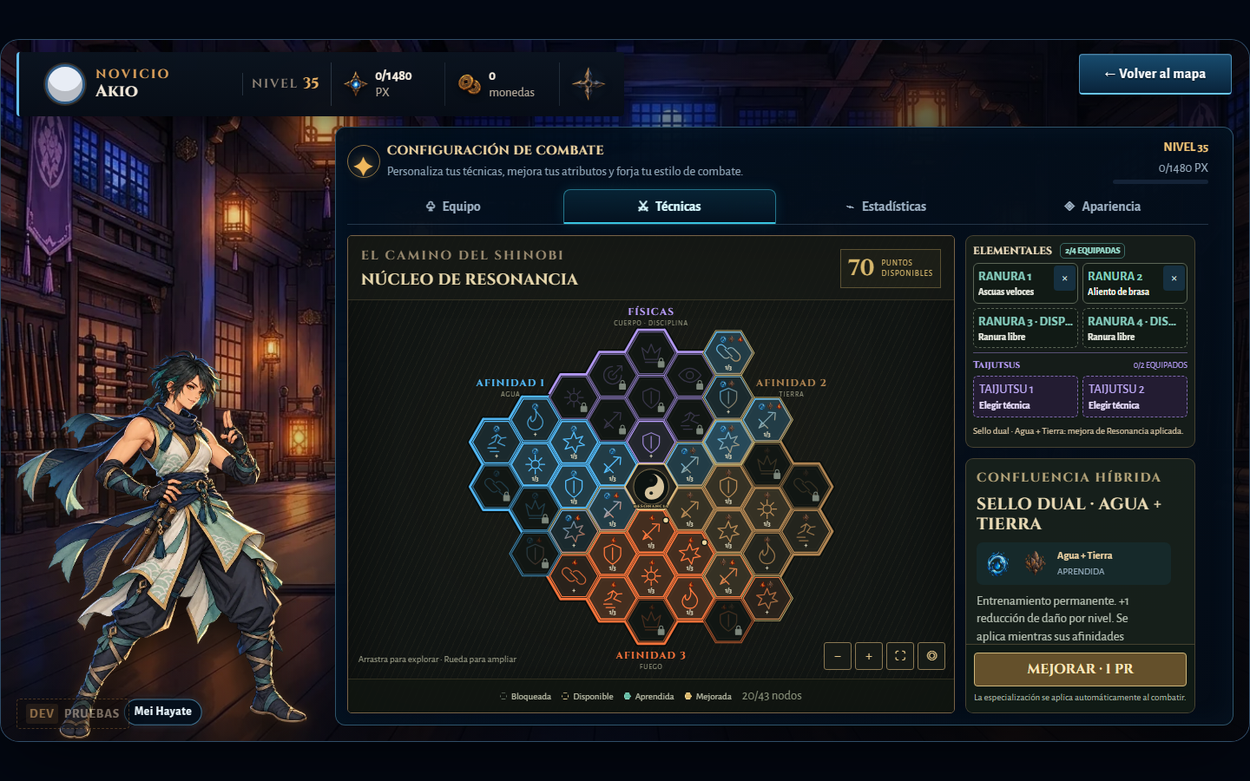
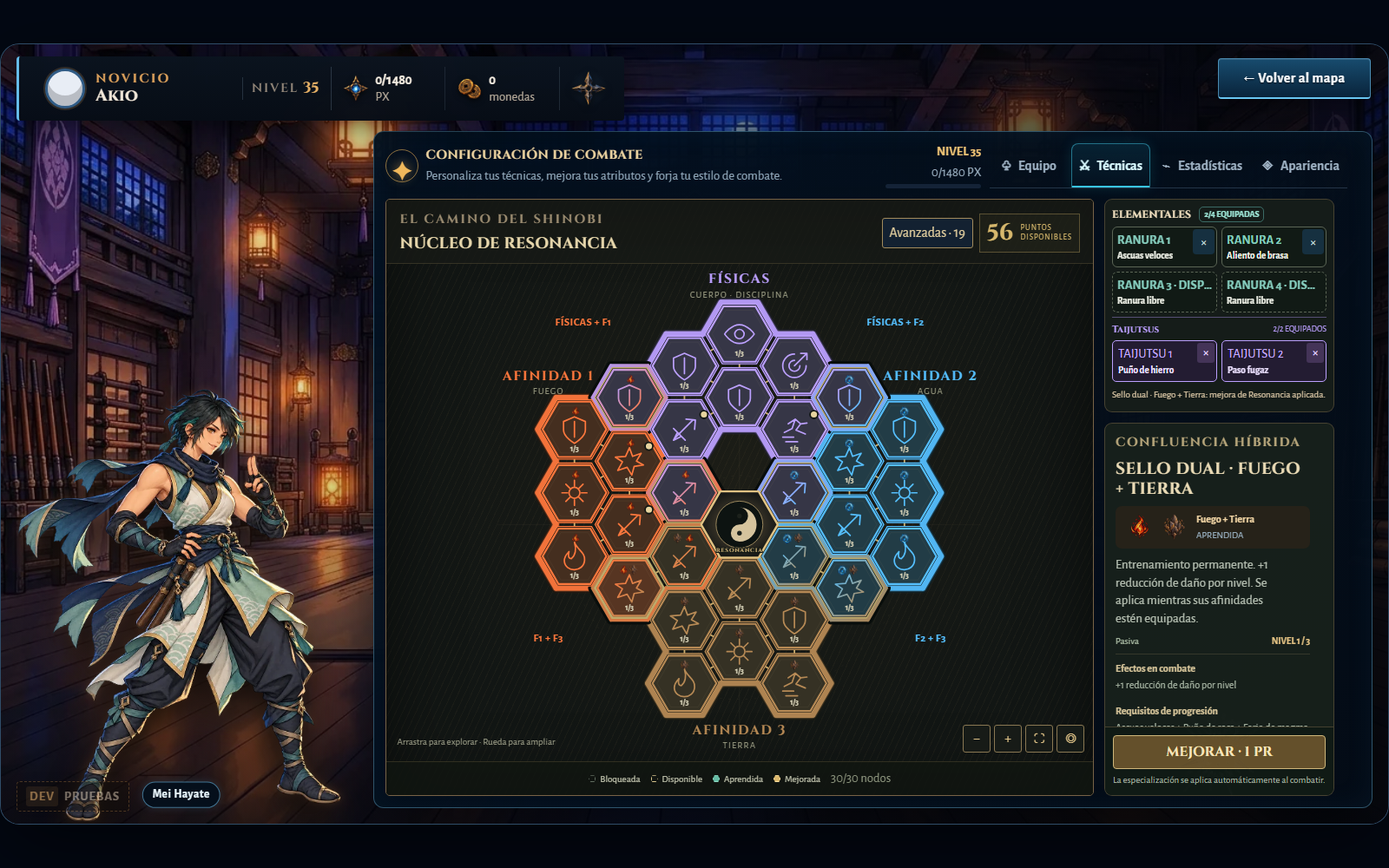
feat: add resonance tree skill system with axial hex layout and ui

diff --git a/src/ui/meta/resonance-tree.js b/src/ui/meta/resonance-tree.js
@@ -21,31 +21,39 @@ const labels = { locked: "BLOQUEADA", available: "DISPONIBLE", unlocked: "APREND
 
 export function treeBounds(nodes) {
   const positions = nodes.map(n => axialToPixel(n.q,n.r));
-  const left = Math.min(...positions.map(p => p.x))-60;
-  const right = Math.max(...positions.map(p => p.x))+60;
+  const left = Math.min(-330,Math.min(...positions.map(p => p.x))-60);
+  const right = Math.max(330,Math.max(...positions.map(p => p.x))+60);
   const top = Math.min(...positions.map(p => p.y))-90;
   const bottom = Math.max(...positions.map(p => p.y))+100;
   return { x:left, y:top, width:right-left, height:bottom-top };
 }
 export const viewBox = view => `${view.x} ${view.y} ${view.width} ${view.height}`;
 
-export function resonanceTreeMarkup(save, deps, selectedId, view) {
+export function resonanceTreeMarkup(save, deps, selectedId, view, { expanded = false } = {}) {
   const escape = deps.escapeHtml;
   const affinities = save.character.affinities;
-  const nodes = skillTreeNodes(save);
+  const allNodes = skillTreeNodes(save);
+  const nodes = expanded ? allNodes : allNodes.filter(node => !node.advanced);
+  const extensionCount = allNodes.filter(node => node.advanced).length;
   const bounds = treeBounds(nodes);
-  const colors = node => node.category === "physical" ? [PHYSICAL_COLOR,PHYSICAL_COLOR] : [colorFor(deps,node.affinityIds[0]),colorFor(deps,node.affinityIds[1] || node.affinityIds[0])];
+  const colors = node => node.physicalHybrid ? [PHYSICAL_COLOR,colorFor(deps,node.affinityIds[0])] : node.category === "physical" ? [PHYSICAL_COLOR,PHYSICAL_COLOR] : [colorFor(deps,node.affinityIds[0]),colorFor(deps,node.affinityIds[1] || node.affinityIds[0])];
+  const bridgeIds = [...new Set(nodes.map(node => node.bridge).filter(Boolean))];
+  const bridgeGradients = bridgeIds.map(id => {
+    const [a,b] = colors(nodes.find(node => node.bridge === id));
+    return `<linearGradient id="res-bridge-${id}" x1="0" y1="0" x2="1" y2="1"><stop stop-color="${a}"/><stop offset="1" stop-color="${b}"/></linearGradient>`;
+  }).join("");
   const gradients = nodes.map(node => {
     const [a,b] = colors(node);
     return `<linearGradient id="res-${node.id}" x1="0" y1="0" x2="1" y2="1"><stop stop-color="${a}"/><stop offset="1" stop-color="${b}"/></linearGradient>`;
   }).join("");
   const regions = [
     { id:"physical", color:PHYSICAL_COLOR, nodes:nodes.filter(node => node.category === "physical") },
-    ...Array.from({ length:3 },(_,slot) => ({ id:`affinity-${slot+1}`, color:colorFor(deps,affinities[slot]), nodes:nodes.filter(node => node.category === "affinity" && node.slot === slot) }))
+    ...Array.from({ length:3 },(_,slot) => ({ id:`affinity-${slot+1}`, color:colorFor(deps,affinities[slot]), nodes:nodes.filter(node => node.category === "affinity" && node.slot === slot) })),
+    ...bridgeIds.map(id => ({ id,color:`url(#res-bridge-${id})`,nodes:nodes.filter(node => node.bridge === id),hybrid:true }))
   ].map(region => {
     const edges = hexBoundarySegments(region.nodes);
     const outline = edges.map(edge => `M${edge.x1},${edge.y1}L${edge.x2},${edge.y2}`).join(" ");
-    return `<g class="resonance-region" data-region="${region.id}" data-region-color="${region.color}" style="--region-color:${region.color}" aria-hidden="true"><path class="resonance-region-shadow" d="${outline}"/><path class="resonance-region-border" d="${outline}"/></g>`;
+    return `<g class="resonance-region ${region.hybrid ? "is-hybrid-region" : ""}" ${region.hybrid ? "data-bridge-region" : "data-region"}="${region.id}" data-region-color="${region.color}" style="--region-color:${region.color}" aria-hidden="true"><path class="resonance-region-shadow" d="${outline}"/><path class="resonance-region-border" d="${outline}"/></g>`;
   }).join("");
   const graph = [{ id:"core", q:0,r:0 }, ...nodes];
   const lines = graph.flatMap((node,i) => graph.slice(i+1).filter(other => hexDistance(node,other) === 1).map(other => {
@@ -64,26 +72,28 @@ export function resonanceTreeMarkup(save, deps, selectedId, view) {
     const stamps = node.affinityIds.map((id,i) => `<image class="resonance-element-stamp" href="${deps.elementIcon(id)}" x="${node.affinityIds.length > 1 ? -17+i*14 : -8}" y="-31" width="16" height="16" aria-hidden="true"/>`).join("");
     return `<g class="resonance-node is-${state} ${node.category === "hybrid" ? "is-hybrid" : ""} ${selectedId === node.id ? "is-selected" : ""}" transform="translate(${x} ${y})" style="--node-color:${a}" role="button" tabindex="0" aria-pressed="${selectedId === node.id}" aria-label="${escape(node.name)}. ${status}. Nivel ${level} de ${node.maxLevel}" data-skill-select="${node.id}" data-category="${node.category}" data-slot="${node.slot ?? ""}" data-state="${state}"><title>${escape(node.name)} · ${status}</title><polygon class="resonance-hex-outline" points="${hexPoints(44)}"/><polygon class="resonance-hex" points="${hexPoints()}" stroke="url(#res-${node.id})"/><polygon class="resonance-hex-inset" points="${hexPoints(35)}"/>${stamps}<path class="resonance-glyph" d="${PATHS[node.icon] || PATHS.seal}" stroke="url(#res-${node.id})"/>${state === "locked" ? '<g class="resonance-lock" transform="translate(17 15)"><rect x="-5" y="0" width="10" height="9" rx="1"/><path d="M-3 0v-3a3 3 0 0 1 6 0v3"/></g>' : `<text class="resonance-level" x="0" y="28" text-anchor="middle">${level ? `${level}/${node.maxLevel}` : "+"}</text>`}${equippedSlot >= 0 ? '<circle class="resonance-equipped" cx="25" cy="-19" r="5"/>' : ""}<text class="skill-state" aria-hidden="true">${escape(status)}</text></g>`;
   }).join("");
-  const positions = nodes.map(n => ({ ...axialToPixel(n.q,n.r), node:n }));
-  const topLabel = Math.min(...positions.map(p => p.y))-65;
-  const bottomLabel = Math.max(...positions.map(p => p.y))+65;
+  const mainPositions = nodes.filter(node => !node.advanced).map(n => axialToPixel(n.q,n.r));
+  const topLabel = Math.min(...mainPositions.map(p => p.y))-65;
+  const bottomLabel = Math.max(...mainPositions.map(p => p.y))+65;
+  const caption = (x,y,title,subtitle,color) => `<g class="resonance-caption" style="fill:${color}" transform="translate(${x} ${y})"><text text-anchor="middle">${escape(title)}</text><text class="resonance-caption-sub" text-anchor="middle" y="18">${escape(subtitle)}</text></g>`;
   const captions = [
-    `<g class="resonance-caption physical" style="fill:${PHYSICAL_COLOR}" transform="translate(0 ${topLabel})"><text text-anchor="middle">FÍSICAS</text><text class="resonance-caption-sub" y="18" text-anchor="middle">CUERPO · DISCIPLINA</text></g>`,
-    ...affinities.concat(Array(3).fill(null)).slice(0,3).map((id,i) => {
-      const branch = positions.filter(p => p.node.slot === i || p.node.advanced && (i === 0 ? p.node.q < -2 : i === 1 ? p.node.q > 2 && p.y < 0 : false));
-      const captionPositions = [[-240,Math.min(...branch.map(p => p.y))-58],[240,Math.min(...branch.map(p => p.y))-58],[0,bottomLabel]];
-      return `<g class="resonance-caption" style="fill:${colorFor(deps,id)}" transform="translate(${captionPositions[i][0]} ${captionPositions[i][1]})"><text text-anchor="middle">AFINIDAD ${i+1}</text><text class="resonance-caption-sub" text-anchor="middle" y="18">${id ? escape(deps.elementName(id).toUpperCase()) : "POR DESCUBRIR"}</text></g>`;
-    })
+    caption(0,topLabel,"FÍSICAS","CUERPO · DISCIPLINA",PHYSICAL_COLOR),
+    ...[0,1,2].map(i => {
+      const id = affinities[i];
+      const [x,y] = [[-245,-185],[245,-185],[0,bottomLabel]][i];
+      return caption(x,y,`AFINIDAD ${i+1}`,id ? deps.elementName(id).toUpperCase() : "POR DESCUBRIR",colorFor(deps,id));
+    }),
+    ...[[0,-200,-255,"FÍSICAS + F1"],[1,200,-255,"FÍSICAS + F2"],[0,-245,150,"F1 + F3"],[1,245,150,"F2 + F3"]].map(([slot,x,y,label]) => `<g class="resonance-bridge-caption" transform="translate(${x} ${y})"><text text-anchor="middle" style="fill:${colorFor(deps,affinities[slot])}">${label}</text></g>`)
   ].join("");
   const developed = nodes.filter(n => skillLevel(save,n)>0 && skillState(save,n) !== "locked").length;
-  return `<section class="resonance-tree skill-tree" aria-label="Árbol de habilidades de Resonancia"><header class="resonance-heading"><div><p class="eyebrow">EL CAMINO DEL SHINOBI</p><h3>Núcleo de Resonancia</h3></div><span class="resonance-points"><b data-resonance-points>${resonancePoints(save)}</b><span>PUNTOS<br>DISPONIBLES</span></span></header><div class="resonance-viewport"><svg class="resonance-canvas" viewBox="${viewBox(view || bounds)}" aria-label="Panal de habilidades. Usa Tab para recorrer, Enter para seleccionar; flechas para desplazar y más o menos para ampliar." data-tree-canvas><defs>${gradients}<radialGradient id="res-core"><stop stop-color="#5f5139"/><stop offset="1" stop-color="#171917"/></radialGradient></defs><g class="resonance-guides" aria-hidden="true"><circle r="63"/><circle r="224"/><path d="M0-340V340M-310 0H310"/></g><g aria-hidden="true">${lines}</g>${regions}${cells}<g class="resonance-core ${selectedId === "core" ? "is-selected" : ""}" role="button" tabindex="0" aria-label="Núcleo de Resonancia. Centrar el árbol" data-tree-core><polygon points="${hexPoints(45)}"/><circle r="30"/><path d="M0-22a22 22 0 0 1 0 44A11 11 0 0 1 0 0a11 11 0 0 0 0-22Z"/><circle cy="-11" r="3"/><circle cy="11" r="3"/><text text-anchor="middle" y="35">RESONANCIA</text></g>${captions}</svg><nav class="resonance-controls" aria-label="Navegación del árbol"><button type="button" data-tree-zoom="out" aria-label="Alejar árbol">−</button><button type="button" data-tree-zoom="in" aria-label="Acercar árbol">+</button><button type="button" data-tree-fit aria-label="Mostrar árbol completo" title="Mostrar árbol completo">⛶</button><button type="button" data-tree-center aria-label="Centrar en Resonancia" title="Centrar en Resonancia">◎</button></nav><span class="resonance-navigation-hint">Arrastra para explorar · Rueda para ampliar</span></div><footer class="resonance-legend"><span><i class="locked"></i>Bloqueada</span><span><i class="available"></i>Disponible</span><span><i class="unlocked"></i>Aprendida</span><span><i class="upgraded"></i>Mejorada</span><small>${developed}/${nodes.length} nodos</small></footer></section>`;
+  return `<section class="resonance-tree skill-tree" aria-label="Árbol de habilidades de Resonancia"><header class="resonance-heading"><div><p class="eyebrow">EL CAMINO DEL SHINOBI</p><h3>Núcleo de Resonancia</h3></div><div class="resonance-heading-actions"><button type="button" class="resonance-extensions-toggle" data-tree-extensions aria-pressed="${expanded}">${expanded ? "Panal principal" : `Avanzadas · ${extensionCount}`}</button><span class="resonance-points"><b data-resonance-points>${resonancePoints(save)}</b><span>PUNTOS<br>DISPONIBLES</span></span></div></header><div class="resonance-viewport"><svg class="resonance-canvas" viewBox="${viewBox(view || bounds)}" aria-label="Panal de habilidades. Usa Tab para recorrer, Enter para seleccionar; flechas para desplazar y más o menos para ampliar." data-tree-canvas><defs>${gradients}${bridgeGradients}<radialGradient id="res-core"><stop stop-color="#5f5139"/><stop offset="1" stop-color="#171917"/></radialGradient></defs><g class="resonance-guides" aria-hidden="true"><circle r="63"/><circle r="224"/><path d="M0-340V340M-310 0H310"/></g><g aria-hidden="true">${lines}</g>${regions}${cells}<g class="resonance-core ${selectedId === "core" ? "is-selected" : ""}" role="button" tabindex="0" aria-label="Núcleo de Resonancia. Centrar el árbol" data-tree-core><polygon points="${hexPoints(49)}"/><circle r="30"/><path d="M0-22a22 22 0 0 1 0 44A11 11 0 0 1 0 0a11 11 0 0 0 0-22Z"/><circle cy="-11" r="3"/><circle cy="11" r="3"/><text text-anchor="middle" y="35">RESONANCIA</text></g>${captions}</svg><nav class="resonance-controls" aria-label="Navegación del árbol"><button type="button" data-tree-zoom="out" aria-label="Alejar árbol">−</button><button type="button" data-tree-zoom="in" aria-label="Acercar árbol">+</button><button type="button" data-tree-fit aria-label="Mostrar árbol completo" title="Mostrar árbol completo">⛶</button><button type="button" data-tree-center aria-label="Centrar en Resonancia" title="Centrar en Resonancia">◎</button></nav><span class="resonance-navigation-hint">Arrastra para explorar · Rueda para ampliar</span></div><footer class="resonance-legend"><span><i class="locked"></i>Bloqueada</span><span><i class="available"></i>Disponible</span><span><i class="unlocked"></i>Aprendida</span><span><i class="upgraded"></i>Mejorada</span><small>${developed}/${nodes.length} nodos</small></footer></section>`;
 }
 
 export function mountResonanceNavigation(host,scope,callbacks) {
   let drag = null;
   let dragged = false;
   const svg = () => host.querySelector("[data-tree-canvas]");
-  const bounds = () => treeBounds(buildSkillTree(callbacks.getSave().character.affinities,callbacks.getSave().campaign.elementRank));
+  const bounds = () => treeBounds(buildSkillTree(callbacks.getSave().character.affinities,callbacks.getSave().campaign.elementRank).filter(node => callbacks.getExpanded() || !node.advanced));
   const current = () => callbacks.getView() || bounds();
   const update = view => { callbacks.setView(view); svg()?.setAttribute("viewBox",viewBox(view)); };
   const point = event => {

diff --git a/src/ui/meta/dojo-techniques.js b/src/ui/meta/dojo-techniques.js
@@ -7,6 +7,7 @@ import { equipTaijutsu, learnedTaijutsu, normalizeTaijutsuLoadout, taijutsuActio
 export function createDojoTechniques(deps) {
   let selectedId = null;
   let treeView = null;
+  let expandedTree = false;
   let replacementId = null;
   let feedback = "";
   let host = null;
@@ -66,8 +67,8 @@ export function createDojoTechniques(deps) {
     const full = save.loadout.length >= deps.loadoutSlotsForLevel(save.progression.level);
     const label = !learned ? "TÉCNICA BLOQUEADA" : equipped ? "QUITAR DEL COMBATE" : full ? "REEMPLAZAR UNA EQUIPADA" : "EQUIPAR EN RANURA LIBRE";
     const category = taijutsu ? "TAIJUTSU · FÍSICO" : node.category === "physical" ? "DISCIPLINA FÍSICA" : node.category === "hybrid" ? "CONFLUENCIA HÍBRIDA" : "TÉCNICA ELEMENTAL";
-    const affinity = node.affinityIds.map(deps.elementName).join(" + ") || "Independiente de las afinidades";
-    const art = node.element ? elementArt(node.element) : node.affinityIds.map(id => elementArt(id)).join("") || '<span class="resonance-physical-mark" aria-hidden="true">拳</span>';
+    const affinity = (node.physicalHybrid ? "Físicas + " : "") + (node.affinityIds.map(deps.elementName).join(" + ") || "Independiente de las afinidades");
+    const art = node.element ? elementArt(node.element) : `${node.physicalHybrid || !node.affinityIds.length ? '<span class="resonance-physical-mark" aria-hidden="true">拳</span>' : ""}${node.affinityIds.map(id => elementArt(id)).join("")}`;
     const canInvest = !requirements.length && level < node.maxLevel && resonancePoints(save) >= node.cost;
     const investLabel = level >= node.maxLevel ? "NIVEL MÁXIMO" : `${level ? "MEJORAR" : "DESBLOQUEAR"} · ${node.cost} PR`;
     const metrics = combatMove ? `<div class="technique-metrics"><div><strong>${combatMove.damage}</strong><small>DAÑO BASE</small></div><div><strong>${taijutsu ? `${taijutsu.healthCost} PV` : `${jutsu.cost} CH`}</strong><small>COSTE EN COMBATE</small></div><div><strong>${combatMove.cooldown ? `${combatMove.cooldown} turnos` : "Sin recarga"}</strong><small>RECARGA</small></div><div><strong>${combatMove.speedMod > 0 ? "+" : ""}${combatMove.speedMod}</strong><small>RITMO</small></div></div>` : "";
@@ -80,15 +81,19 @@ export function createDojoTechniques(deps) {
 
   function render(save) {
     const nodes = nodesFor(save);
-    if (selectedId !== "core" && !nodes.some(node => node.id === selectedId)) selectedId = save.loadout.find(id => nodes.some(node => node.id === id)) || "core";
+    const visibleNodes = expandedTree ? nodes : nodes.filter(node => !node.advanced);
+    if (selectedId !== "core" && !visibleNodes.some(node => node.id === selectedId)) selectedId = save.loadout.find(id => visibleNodes.some(node => node.id === id)) || "core";
     if (replacementId && (save.loadout.includes(replacementId) || !deps.isTechniqueLearned(save, technique(replacementId)))) replacementId = null;
-    return `<div class="dojo-technique-workspace">${loadoutMarkup(save)}<div class="dojo-technique-layout">${resonanceTreeMarkup(save,deps,selectedId,treeView)}<section class="technique-detail-wrap" aria-label="Detalle de habilidad" data-technique-detail>${detailMarkup(save,nodes.find(n => n.id === selectedId))}</section></div></div>`;
+    return `<div class="dojo-technique-workspace">${loadoutMarkup(save)}<div class="dojo-technique-layout">${resonanceTreeMarkup(save,deps,selectedId,treeView,{ expanded:expandedTree })}<section class="technique-detail-wrap" aria-label="Detalle de habilidad" data-technique-detail>${detailMarkup(save,nodes.find(n => n.id === selectedId))}</section></div></div>`;
   }
 
   function inspect(id, preview = false) {
     if (!host?.isConnected) return;
     const save = bindings.getSave();
     if (!preview) {
+      if (!expandedTree && nodesFor(save).some(node => node.id === id && node.advanced)) {
+        expandedTree = true; treeView = null; selectedId = id; refresh(save);
+      }
       selectedId = id;
       replacementId = null;
       const prerequisites = nodesFor(save).find(node => node.id === id)?.prerequisites || [];
@@ -129,7 +134,7 @@ export function createDojoTechniques(deps) {
       feedback = "";
       refresh(bindings.getSave());
       mountResonanceNavigation(host,scope,{
-        getSave: bindings.getSave, getView: () => treeView, setView: view => { treeView = view; },
+        getSave: bindings.getSave, getExpanded: () => expandedTree, getView: () => treeView, setView: view => { treeView = view; },
         onInspect: id => { if (replacementId) { replacementId = null; refresh(bindings.getSave()); } inspect(id); },
         onHover: id => { if (!replacementId) inspect(id || selectedId,true); },
         onCore: () => inspect("core")
@@ -140,7 +145,11 @@ export function createDojoTechniques(deps) {
         if (!button || button.disabled) return;
         const save = bindings.getSave();
         const inspectId = button.dataset.skillSelect || button.dataset.loadoutInspect;
-        if (button.hasAttribute("data-taijutsu-choose")) {
+        if (button.hasAttribute("data-tree-extensions")) {
+          expandedTree = !expandedTree; treeView = null;
+          if (!expandedTree && nodesFor(save).some(node => node.id === selectedId && node.advanced)) selectedId = "core";
+          refresh(save,"[data-tree-extensions]");
+        } else if (button.hasAttribute("data-taijutsu-choose")) {
           const index = Number(button.dataset.taijutsuChoose);
           selectedId = normalizeTaijutsuLoadout(save)[index] || TAIJUTSU_ACTIONS.find(action => learnedTaijutsu(save,action.id) && !normalizeTaijutsuLoadout(save).includes(action.id))?.id || TAIJUTSU_ACTIONS[0].id;
           replacementId = null; feedback = "Elige T1 o T2 en la ficha para equipar el taijutsu.";
@@ -160,6 +169,7 @@ export function createDojoTechniques(deps) {
           host.querySelector(`[data-skill-invest="${selectedId}"]`)?.focus({ preventScroll:true });
         } else if (inspectId) {
           selectedId = inspectId; replacementId = null; feedback = "";
+          if (nodesFor(save).some(node => node.id === selectedId && node.advanced)) { expandedTree = true; treeView = null; }
           refresh(save, button.dataset.skillSelect ? `[data-skill-select="${inspectId}"]` : `[data-loadout-inspect="${inspectId}"]`, true);
         } else if (button.hasAttribute("data-cancel-replace")) cancel();
         else if (button.hasAttribute("data-loadout-remove")) {

diff --git a/src/skills/definitions.js b/src/skills/definitions.js
@@ -18,15 +18,19 @@ export const PHYSICAL_COLOR = "#bca0ff";
  */
 /** @typedef {SkillDefinition & { level: number }} SkillNode Runtime projection of definition + player progression. */
 
-// Flat-top axial cells. Layout is data, shared by every equipped element.
+// Main silhouette traced from the reference: seven staggered columns,
+// six upper physical cells, two five-cell side fans, six lower cells,
+// and four two-cell diagonal bridges. The upper central recess stays empty.
+export const HEX_GRID_SIZE = 47;
 export const SKILL_LAYOUT = Object.freeze({
-  physical: [[0,-1],[-1,-1],[1,-2],[0,-2],[-1,-2],[1,-3],[-2,-1],[0,-3]],
+  physical: [[0,-2],[-1,-1],[1,-2],[-1,-2],[1,-3],[0,-3]],
   affinities: [
-    [[-1,0],[-2,0],[-2,1],[-3,1],[-3,0],[-4,1],[-4,2],[-3,2]],
-    [[1,0],[2,0],[2,-1],[3,-1],[3,0],[4,-1],[4,-2],[3,-2]],
-    [[0,1],[1,1],[-1,2],[0,2],[1,2],[-1,3],[-2,3],[0,3]]
+    [[-2,1],[-2,0],[-3,0],[-3,1],[-3,2]],
+    [[2,-1],[2,-2],[3,-3],[3,-2],[3,-1]],
+    [[0,1],[-1,2],[1,1],[0,2],[-1,3],[1,2]]
   ],
-  hybrids: [[[1,-1],[2,-2],[2,-3]],[[-1,1],[-2,2],[-3,3]],[[2,1],[3,1],[2,2]]]
+  physicalBridges: [[[-1,0],[-2,-1]],[[1,-1],[2,-3]]],
+  affinityBridges: [[[-1,1],[-2,2]],[[1,0],[2,0]]]
 });
 
 const ICONS = ["strike", "burst", "shield", "seal", "flame", "step", "bind", "crown"];
@@ -102,9 +106,21 @@ export function pairSkills(affinityIds) {
   return nodes;
 }
 
+export function physicalAffinitySkills(elementId) {
+  const key = `physical_${elementId}`;
+  const root = affinitySkills(elementId)[0].id;
+  return [
+    passive(`hybrid_${key}_0`, `Impacto resonante · ${ELEMENTS[elementId].name}`, "hybrid", [elementId], 0,
+      { stat:"strength",amount:1 }, ["physical_0",root]),
+    passive(`hybrid_${key}_1`, `Cuerpo resonante · ${ELEMENTS[elementId].name}`, "hybrid", [elementId], 2,
+      { stat:"damageReduction",amount:1 }, [`hybrid_${key}_0`,"physical_0",root])
+  ].map(node => ({ ...node,physicalHybrid:true,description:`Combina el entrenamiento físico con ${ELEMENTS[elementId].name}. ${effectText(node.effect)}.` }));
+}
+
 export const SKILL_CATALOG = [
   ...PHYSICAL_SKILLS,
   ...BASIC_ELEMENT_IDS.flatMap(affinitySkills),
+  ...BASIC_ELEMENT_IDS.flatMap(physicalAffinitySkills),
   ...BASIC_ELEMENT_IDS.flatMap((id,i) => BASIC_ELEMENT_IDS.slice(i+1).flatMap(other => pairSkills([id,other]))),
   ...JUTSU_LIBRARY.filter(j => basicRequirements(j.element).length === 3).map((j,i) => ({
     ...techniqueNode(j,"hybrid",i), prerequisites: basicRequirements(j.element).map(id => affinitySkills(id)[0].id)
@@ -126,19 +142,29 @@ export function buildSkillTree(affinities = [], rank = 1) {
     nodes.push(...place(branch.slice(0,SKILL_LAYOUT.affinities[slot].length), SKILL_LAYOUT.affinities[slot]).map(node => ({ ...node, slot })));
     overflow.push(...branch.slice(SKILL_LAYOUT.affinities[slot].length).map(node => ({ ...node, slot })));
   }
-  [[0,1],[0,2],[1,2]].forEach(([a,b], index) => {
-    const ids = [affinities[a],affinities[b]];
-    const branch = ids.every(Boolean) ? pairSkills(ids) : Array.from({ length: 3 }, (_,i) => ({
-      id: `empty_hybrid_${index}_${i}`, name: `Puente de afinidades ${a+1} + ${b+1}`, category: "hybrid", affinityIds: ids.filter(Boolean),
-      description: "Equipa ambas afinidades y desarrolla sus nodos de entrada para activar este puente.", icon: "bind", type: "Híbrida", maxLevel: 3, cost: 1, prerequisites: [], placeholder: true
-    }));
-    nodes.push(...place(branch.slice(0,3), SKILL_LAYOUT.hybrids[index]).map(node => ({ ...node, pair: [a,b] })));
-    overflow.push(...branch.slice(3));
+  const emptyBridge = (id,affinityIds,description,physicalHybrid = false) => Array.from({ length:2 },(_,i) => ({
+    id:`${id}_${i}`,name:"Confluencia por descubrir",category:"hybrid",affinityIds,description,
+    icon:"bind",type:physicalHybrid ? "Físicas + Afinidad" : "Afinidad + Afinidad",maxLevel:3,cost:1,prerequisites:[],placeholder:true,physicalHybrid
+  }));
+  [0,1].forEach(slot => {
+    const elementId = affinities[slot];
+    const branch = elementId ? physicalAffinitySkills(elementId) : emptyBridge(`empty_physical_${slot}`,[],"Equipa esta afinidad y desarrolla tu disciplina física para revelar el puente.",true);
+    nodes.push(...place(branch,SKILL_LAYOUT.physicalBridges[slot]).map(node => ({ ...node,bridge:`physical-affinity-${slot+1}` })));
   });
+  [[0,2],[1,2]].forEach(([a,b],index) => {
+    const ids = [affinities[a],affinities[b]];
+    const branch = ids.every(Boolean) ? pairSkills(ids) : emptyBridge(`empty_hybrid_${index}`,ids.filter(Boolean),"Equipa ambas afinidades y desarrolla sus nodos de entrada para activar este puente.");
+    nodes.push(...place(branch.slice(0,2),SKILL_LAYOUT.affinityBridges[index]).map(node => ({ ...node,bridge:`affinity-${a+1}-${b+1}`,pair:[a,b] })));
+    overflow.push(...branch.slice(2));
+  });
+  // The first/second affinity combination remains available in the advanced view.
+  if (affinities[0] && affinities[1]) overflow.push(...pairSkills([affinities[0],affinities[1]]));
+  // Reordering affinities never hides an already developed physical combination.
+  affinities.slice(2).forEach(id => overflow.push(...physicalAffinitySkills(id)));
   // Existing advanced techniques remain reachable. New seasons can add data
   // without changing the renderer: reserve the nearest unoccupied axial cells.
   overflow.push(...SKILL_CATALOG.filter(node => node.affinityIds.length === 3 && rank >= ELEMENTS[node.element].tier && node.affinityIds.every(id => affinities.includes(id))));
-  const occupied = new Set(["0,0", ...nodes.map(n => `${n.q},${n.r}`)]);
+  const occupied = new Set(["0,0","0,-1", ...nodes.map(n => `${n.q},${n.r}`)]);
   const candidates = [];
   const radius = Math.max(5,Math.ceil(Math.sqrt(nodes.length + overflow.length)));
   for (let q = -radius; q <= radius; q++) for (let r = -radius; r <= radius; r++) {
@@ -150,5 +176,5 @@ export function buildSkillTree(affinities = [], rank = 1) {
   return nodes;
 }
 
-export const axialToPixel = (q,r,size = 44) => ({ x: size * 1.5 * q, y: size * Math.sqrt(3) * (r + q/2) });
+export const axialToPixel = (q,r,size = HEX_GRID_SIZE) => ({ x: size * 1.5 * q, y: size * Math.sqrt(3) * (r + q/2) });
 export const hexDistance = (a,b) => Math.max(Math.abs(a.q-b.q),Math.abs(a.r-b.r),Math.abs(a.q+a.r-b.q-b.r));

diff --git a/resonance-tree.css b/resonance-tree.css
@@ -8,6 +8,9 @@
 .resonance-points { display:flex; align-items:center; gap:8px; padding:4px 8px; border:1px solid #d7b86d55; background:#c6a9660d; color:#d7b86d; }
 .resonance-points b { font:700 26px "Cinzel",Georgia,serif; }
 .resonance-points span { font-size:9px; line-height:1.3; letter-spacing:1px; }
+.resonance-heading-actions { display:flex; align-items:center; gap:7px; }
+.resonance-extensions-toggle { padding:6px 8px; border:1px solid #a28b5c; border-radius:3px; background:#132131; color:#e3cf9f; font-size:10px; cursor:pointer; white-space:nowrap; }
+.resonance-extensions-toggle[aria-pressed="true"] { border-color:#dcc183; background:#3c3221; }
 .resonance-viewport { position:relative; min-height:0; overflow:hidden; }
 .resonance-canvas { display:block; width:100%; height:100%; touch-action:none; user-select:none; cursor:grab; }
 .resonance-canvas:active { cursor:grabbing; }
@@ -19,6 +22,8 @@
 .resonance-region { pointer-events:none; fill:none; stroke-linecap:round; stroke-linejoin:round; }
 .resonance-region-shadow { stroke:#080d0b; stroke-width:12; }
 .resonance-region-border { stroke:var(--region-color); stroke-width:7; opacity:.95; }
+.resonance-region:not(.is-hybrid-region) .resonance-region-border { filter:drop-shadow(0 0 2px var(--region-color)); }
+.resonance-region.is-hybrid-region .resonance-region-border { stroke-width:5; }
 .resonance-node { cursor:pointer; outline:none; }
 .resonance-hex-outline { fill:#0c100f; stroke:var(--node-color); stroke-width:1.5; }
 .resonance-hex { fill:#191d1b; stroke-width:1.8; }
@@ -53,6 +58,7 @@
 .resonance-caption { fill:#d8c898; pointer-events:none; font:700 17px "Cinzel",Georgia,serif; letter-spacing:1.7px; }
 .resonance-caption.physical { fill:#bca0ff; }
 .resonance-caption-sub { fill:#9b9c83; font:12px "Alegreya Sans",sans-serif; letter-spacing:1.3px; }
+.resonance-bridge-caption { pointer-events:none; font:700 14px "Alegreya Sans",sans-serif; letter-spacing:.5px; }
 .resonance-controls { position:absolute; right:10px; bottom:10px; display:flex; gap:4px; }
 .resonance-controls button { display:grid; place-items:center; width:32px; min-height:32px; padding:0; border:1px solid #8a7853; border-radius:3px; background:#171c17ef; color:#e1c488; font-size:19px; cursor:pointer; }
 .resonance-controls button:hover { background:#3d3926; border-color:#e0c084; }

diff --git a/src/skills/hex-boundaries.js b/src/skills/hex-boundaries.js
@@ -1,10 +1,10 @@
-import { axialToPixel } from "./definitions.js?v=1.0.0";
+import { HEX_GRID_SIZE, axialToPixel } from "./definitions.js?v=1.0.0";
 
 const NEIGHBORS = [[1,0],[0,1],[-1,1],[-1,0],[0,-1],[1,-1]];
 
 // Draw only exposed edges, so the outline follows the actual honeycomb instead
 // of enclosing other branches or leaving artificial space between their cells.
-export function hexBoundarySegments(nodes,size = 44) {
+export function hexBoundarySegments(nodes,size = HEX_GRID_SIZE) {
   const occupied = new Set(nodes.map(node => `${node.q},${node.r}`));
   return nodes.flatMap(node => {
     const { x,y } = axialToPixel(node.q,node.r,size);

diff --git a/docs/ARBOL_RESONANCIA.md b/docs/ARBOL_RESONANCIA.md
@@ -1,8 +1,15 @@
 # Árbol de Resonancia
 
 El Dojo → Técnicas muestra un panal axial con cuatro direcciones: físicas arriba,
-primera afinidad a la izquierda, segunda a la derecha y tercera abajo. Cada rama
-elemental contiene ocho habilidades. Las ranuras sin afinidad conservan su lugar
+primera afinidad a la izquierda, segunda a la derecha y tercera abajo. El contorno
+principal reproduce las celdas de la referencia visual del 2 de noviembre:
+siete columnas escalonadas y simétricas, un hueco sobre el núcleo, seis celdas
+físicas, cinco en cada abanico lateral, seis abajo y cuatro puentes diagonales
+de dos celdas. Los números escritos en la referencia son orientativos.
+
+El catálogo conserva ocho habilidades por afinidad y ocho físicas. Las adicionales
+aparecen al activar **Avanzadas**; regresar a **Panal principal** restaura exactamente
+el contorno de referencia. Las ranuras sin afinidad conservan su lugar
 con celdas bloqueadas; no asignan elementos que el personaje todavía no posee.
 
 ## Datos, progreso y representación
@@ -30,11 +37,15 @@ celdas vecinas: ninguna línea atraviesa artificialmente el espacio entre ramas.
 Los requisitos efectivos figuran en la ficha; todos los requisitos de un nodo
 deben cumplirse. Desarrollar una rama no obliga a comprar todos sus nodos.
 
-Cada par de afinidades tiene tres celdas iniciales. Las técnicas avanzadas que ya
-existían en el juego se conservan como extensiones: Rayo tiene una cuarta técnica,
-y las combinaciones triples aparecen al equipar sus tres elementos y alcanzar el
-rango elemental correspondiente. Las extensiones ocupan celdas axiales libres
-cercanas al núcleo sin superponer nodos.
+Los puentes superiores combinan físicas con la primera y segunda afinidad. Los
+inferiores combinan primera + tercera y segunda + tercera. Sus contornos mezclan
+ambos colores. Las dos combinaciones físicas de cada elemento requieren progreso
+en el cuerpo y en el elemento, y añaden fuerza o reducción de daño.
+
+La combinación primera + segunda, las técnicas restantes y las combinaciones
+triples se conservan en Avanzadas. Al reordenar las afinidades, los cruces físicos
+de la tercera afinidad también quedan accesibles allí. Las extensiones ocupan
+celdas axiales libres sin superponer nodos; nunca ocupan el hueco sobre Resonancia.
 
 ## Economía y compatibilidad
 
